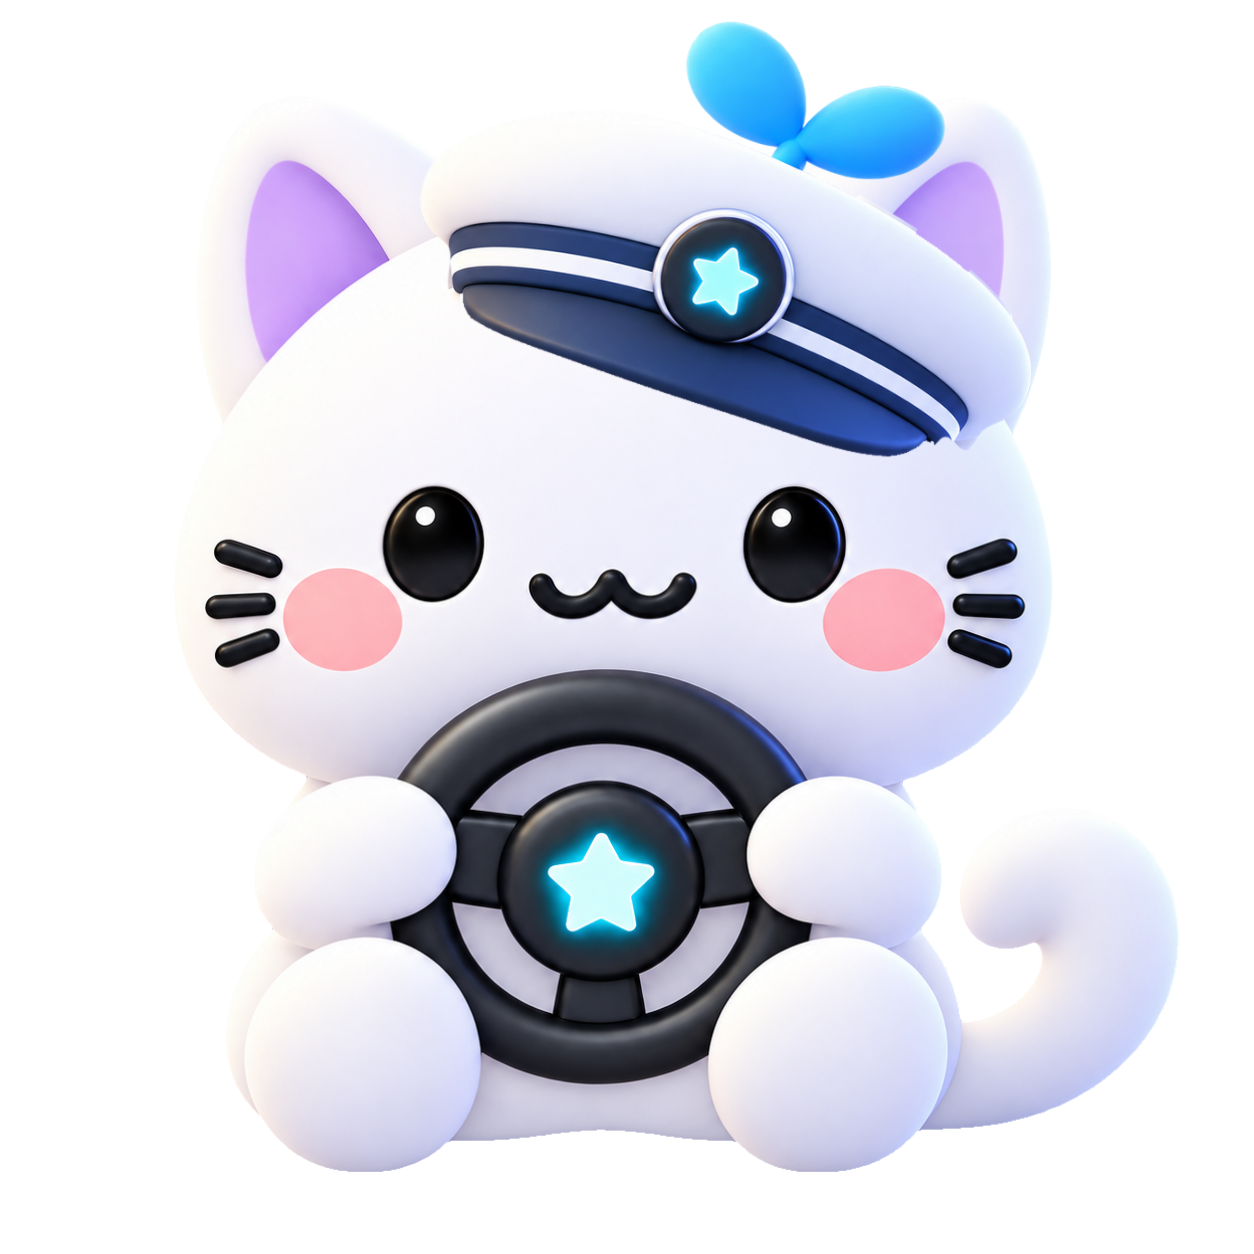
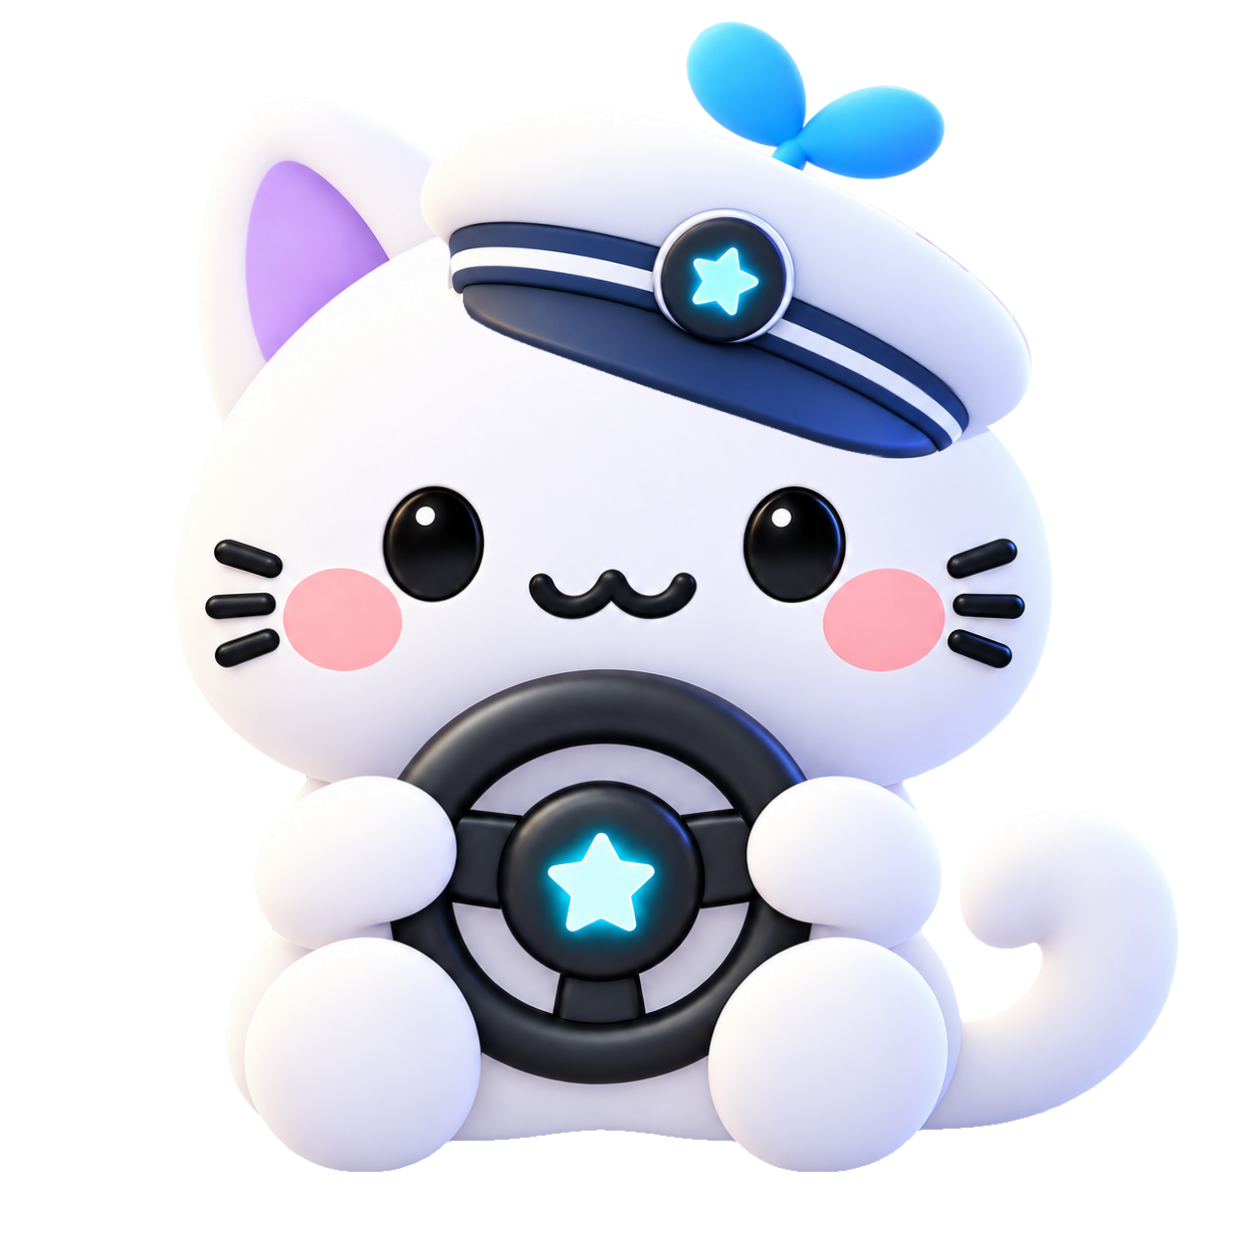
fix(art): align Luna idle cap with reference
- Correct the exposed ear and rough brim in Luna idle cap frames
- Apply reviewed reference pixels and retain source provenance with regression coverage

Changed region(s): [[0.6842, 0.0933, 0.8397, 0.311], [0.7153, 0.311, 0.8086, 0.3732]]

diff --git a/app/src/androidTest/java/com/monsters/mobimon/store/StoreLayoutDeviceTest.kt b/app/src/androidTest/java/com/monsters/mobimon/store/StoreLayoutDeviceTest.kt
@@ -62,6 +62,7 @@ class StoreLayoutDeviceTest {
             CosmeticItem("accessory:mobi_headphones", CosmeticSlot.ACCESSORY, 300, "friend:mobi"),
             CosmeticItem("accessory:mobi_goggles", CosmeticSlot.ACCESSORY, 300, "friend:mobi"),
             CosmeticItem("accessory:luna_sunglasses", CosmeticSlot.ACCESSORY, 300, "friend:luna"),
+            CosmeticItem("accessory:luna_cap", CosmeticSlot.ACCESSORY, 300, "friend:luna"),
             CosmeticItem("background:star", CosmeticSlot.BACKGROUND, 200),
             CosmeticItem("background:snow", CosmeticSlot.BACKGROUND, 200),
             CosmeticItem("background:star_hanger", CosmeticSlot.BACKGROUND, 200),
@@ -139,6 +140,10 @@ class StoreLayoutDeviceTest {
         capture("clothes-luna-first-frame")
         awaitLunaFrame("sunglasses")
         capture("clothes-luna-sunglasses")
+        compose.onNodeWithText("루나 모자").performClick()
+        compose.onNodeWithTag("preview-character").assertContentDescriptionEquals("Luna 고양이")
+        awaitLunaFrame("hat")
+        capture("clothes-luna-cap")
     }
 
     @Test fun purchaseRequiresConfirmationAndCommittedOwnership() {

diff --git a/core/core-ui/src/test/java/com/monsters/mobimon/core/ui/PetAvatarTest.kt b/core/core-ui/src/test/java/com/monsters/mobimon/core/ui/PetAvatarTest.kt
@@ -406,6 +406,21 @@ class PetAvatarTest {
     }
 
     @Test
+    fun lunaIdleCapOccludesRightEarThroughoutBreathing() {
+        val context =
+            androidx.test.core.app.ApplicationProvider
+                .getApplicationContext<android.content.Context>()
+        val frames = LunaAnimationCache.getOrLoadFrames(context, appearance = LunaAppearance.HAT)
+        frames.forEach { image ->
+            val bitmap = image.asAndroidBitmap()
+            // Interior of the old exposed ear, above the tilted cap crown.
+            assertEquals(0, android.graphics.Color.alpha(bitmap.getPixel(500, 110)))
+            // The opposite ear must remain visible.
+            assertTrue(android.graphics.Color.alpha(bitmap.getPixel(150, 130)) > 240)
+        }
+    }
+
+    @Test
     fun lunaSunglassesFramesReplaceCachedNormalAndHatArtwork() =
         kotlinx.coroutines.test.runTest {
             val context =

diff --git a/docs/DESIGN.md b/docs/DESIGN.md
@@ -203,6 +203,7 @@ sprout timing; fitted items follow the head with their own sprout occlusion.
 Still previews retain the canonical open-eye pose.
 Luna idle keeps its 2.2-second loop, blends adjacent breathing poses and uses
 crisp, shorter blink poses; normal, cap and sunglasses retain their fitted artwork.
+The idle cap follows its registered fitted master for the covered ear and brim edge.
 
 Respect the shared motion preference; animation never authorizes commands.
 Settings controls floating wandering; unknown/failed reads keep it stationary.
